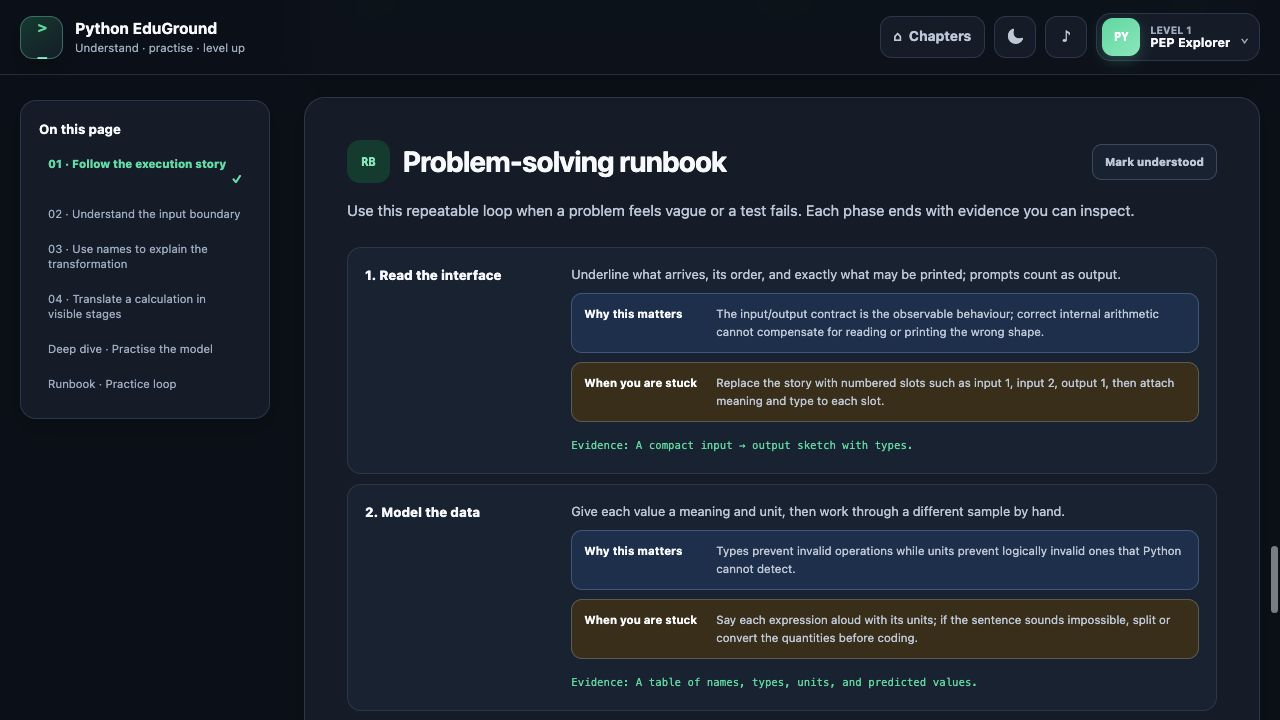
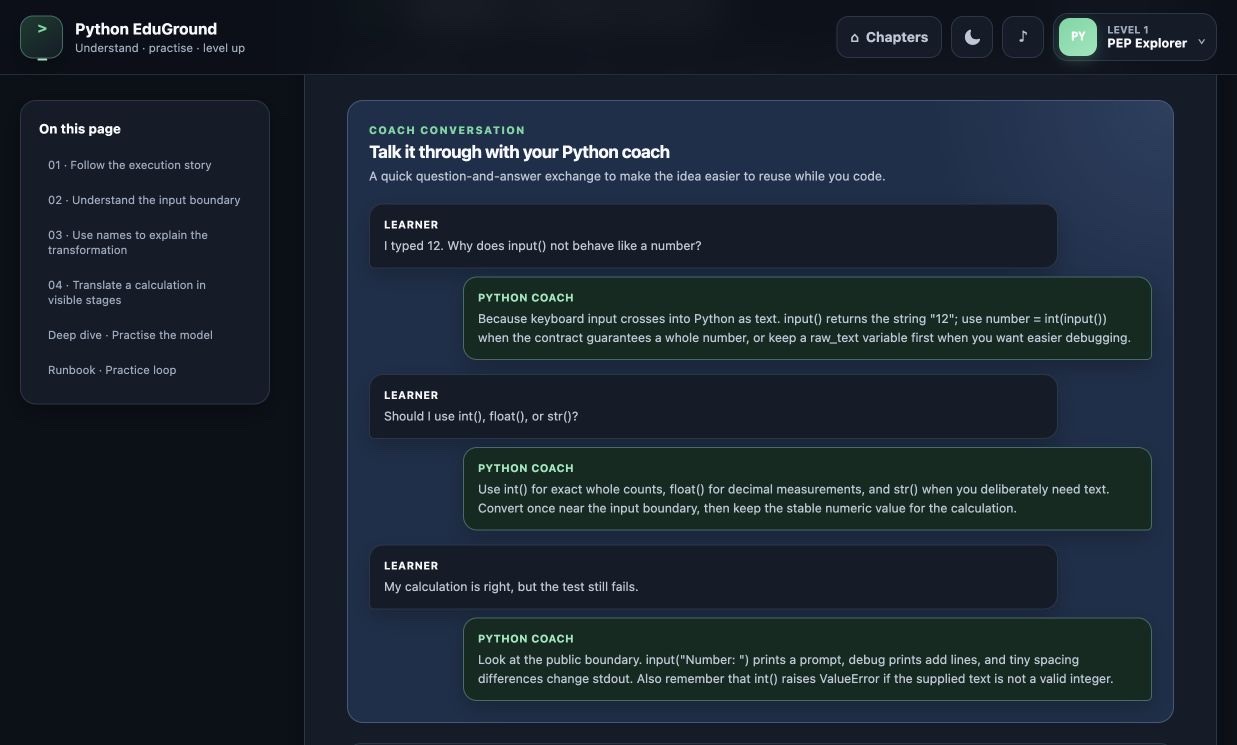
docs: refresh the guided runbook tour

diff --git a/README.md b/README.md
@@ -14,7 +14,7 @@ Python EduGround turns the 11 exercise chapters in this repository into a local-
 
 ### Evidence-driven problem-solving runbook
 
-![Problem-solving runbook with why it matters, what to try when stuck, and evidence for every phase](docs/screenshots/runbook.jpg)
+![Problem-solving runbook with a learner and Python-coach conversation about input, integer conversion, and test debugging](docs/screenshots/runbook.jpg)
 
 ### Browser IDE and test feedback
 
@@ -31,8 +31,8 @@ Python EduGround turns the 11 exercise chapters in this repository into a local-
 | Area | Included |
 | --- | --- |
 | Curriculum | 11 chapters, 92 exercises, 281 tests, and 239 collectible difficulty stars |
-| Guided learning | 44 tutorials, 55 runbook phases, 55 mental-model steps, and 22 guided practices |
-| Reference material | 66 glossary terms, 66 debugging checks, and one checkpoint per chapter |
+| Guided learning | 44 tutorials, 55 runbook phases, 55 mental-model steps, 22 guided practices, and 33 learner/coach exchanges |
+| Reference material | 66 glossary terms, 66 debugging checks, one checkpoint per chapter, and 38 curated official Python documentation links |
 | Exercise support | Rewritten teaching prompts, contracts, success criteria, visible examples, and progressive hints |
 | Editor | Vendored Ace with a persistent Sublime or Vim keymap, fixed Monokai theme, Python highlighting, autocomplete, search, folding, line numbers, and copy/paste controls |
 | Files | Automatic browser drafts, explicit **Save**, and a **Download .py** action for a real local file |
@@ -48,7 +48,7 @@ Every chapter guide combines five layers:
 2. A visual mental model that explains how values or control move through the chapter's topic.
 3. Two guided prediction practices with copyable safe starters and revealable coaching notes.
 4. A glossary, debugging checklist, and knowledge checkpoint.
-5. A five-phase runbook where every phase explains **why it matters**, **what to try when stuck**, and **what evidence proves the phase is complete**.
+5. A five-phase runbook with a conversational Python coach, **why it matters**, **what to try when stuck**, inspectable evidence, and topic-specific links to the official Python documentation.
 
 Guide sections can be marked understood. Their progress persists separately from graded exercise passes, so reading a tutorial never awards exercise stars.
 
@@ -139,11 +139,12 @@ Local storage is scoped to the exact browser origin. For example, `127.0.0.1:800
 
 ```bash
 npm run validate
+npm run validate:links
 node --check python-runner-worker.mjs
 git diff --check
 ```
 
-`npm run validate` checks application and backend syntax/tests, all 11 chapter definitions, all 92 exercise definitions, all 281 tests, every solution-free starter, every tutorial and runbook phase, and the complete deep-learning schema.
+`npm run validate` performs the deterministic offline checks for application and backend syntax/tests, all 11 chapter definitions, all 92 exercise definitions, all 281 tests, every solution-free starter, every tutorial and runbook phase, coaching conversations, official-link allowlisting, and the complete deep-learning schema. `npm run validate:links` is the optional network check that verifies the curated Python documentation pages and fragment anchors still exist.
 
 The release smoke flow also covers:
 